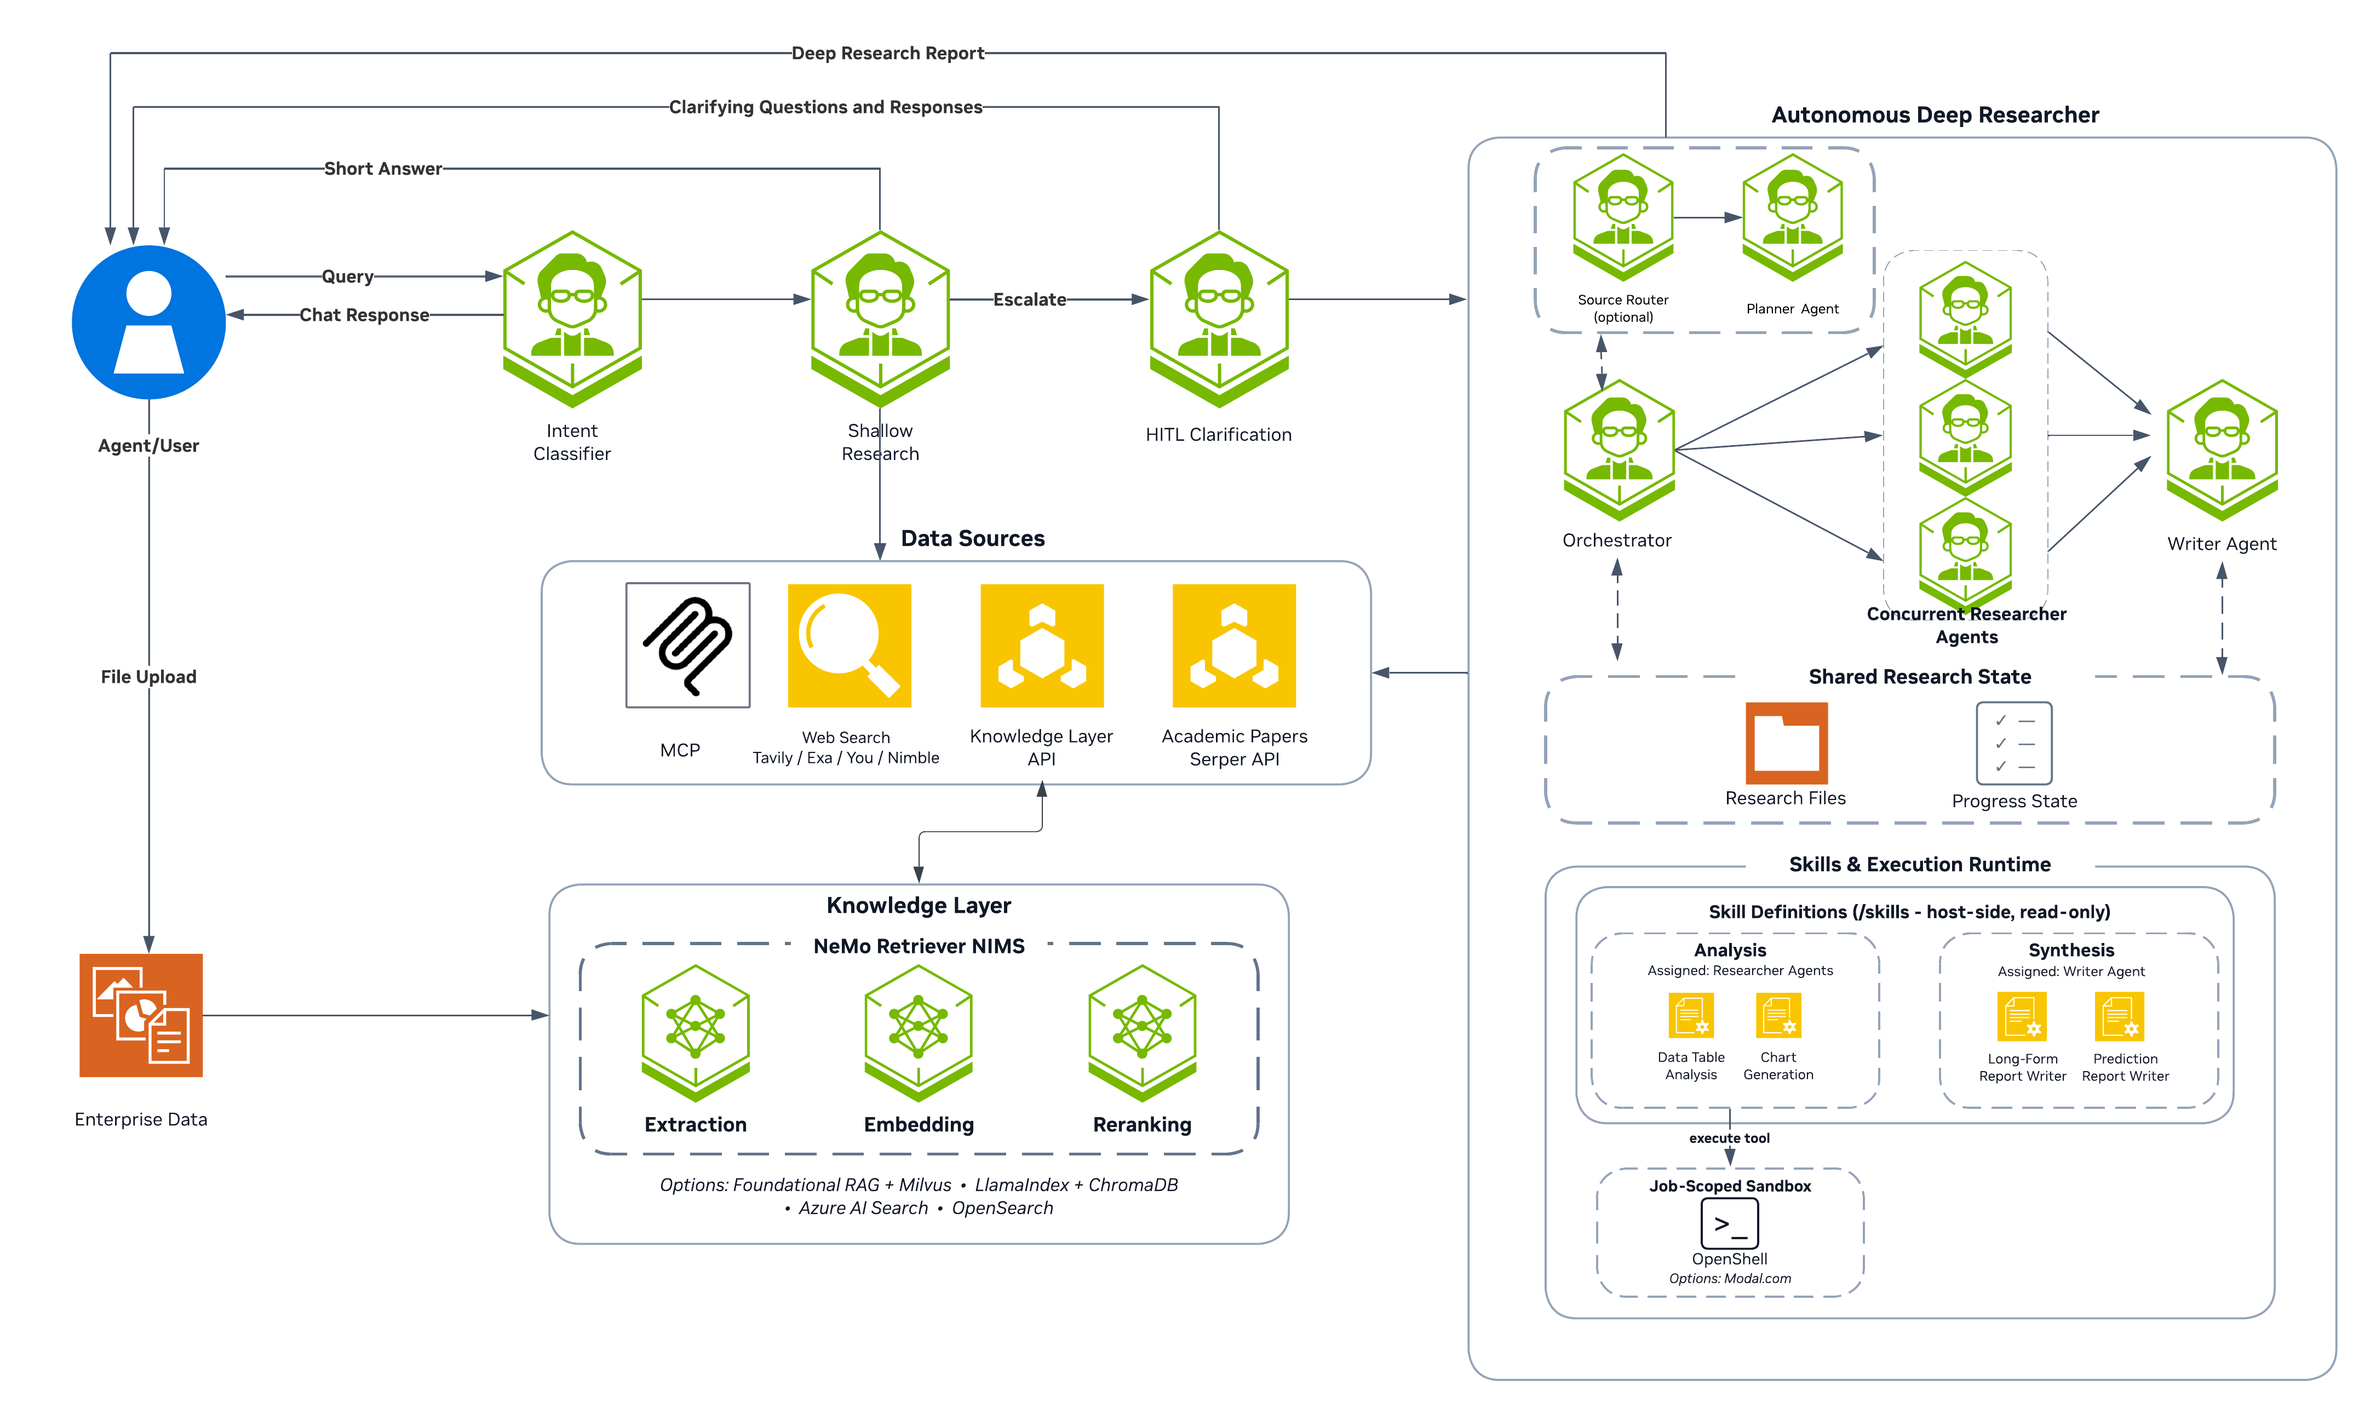
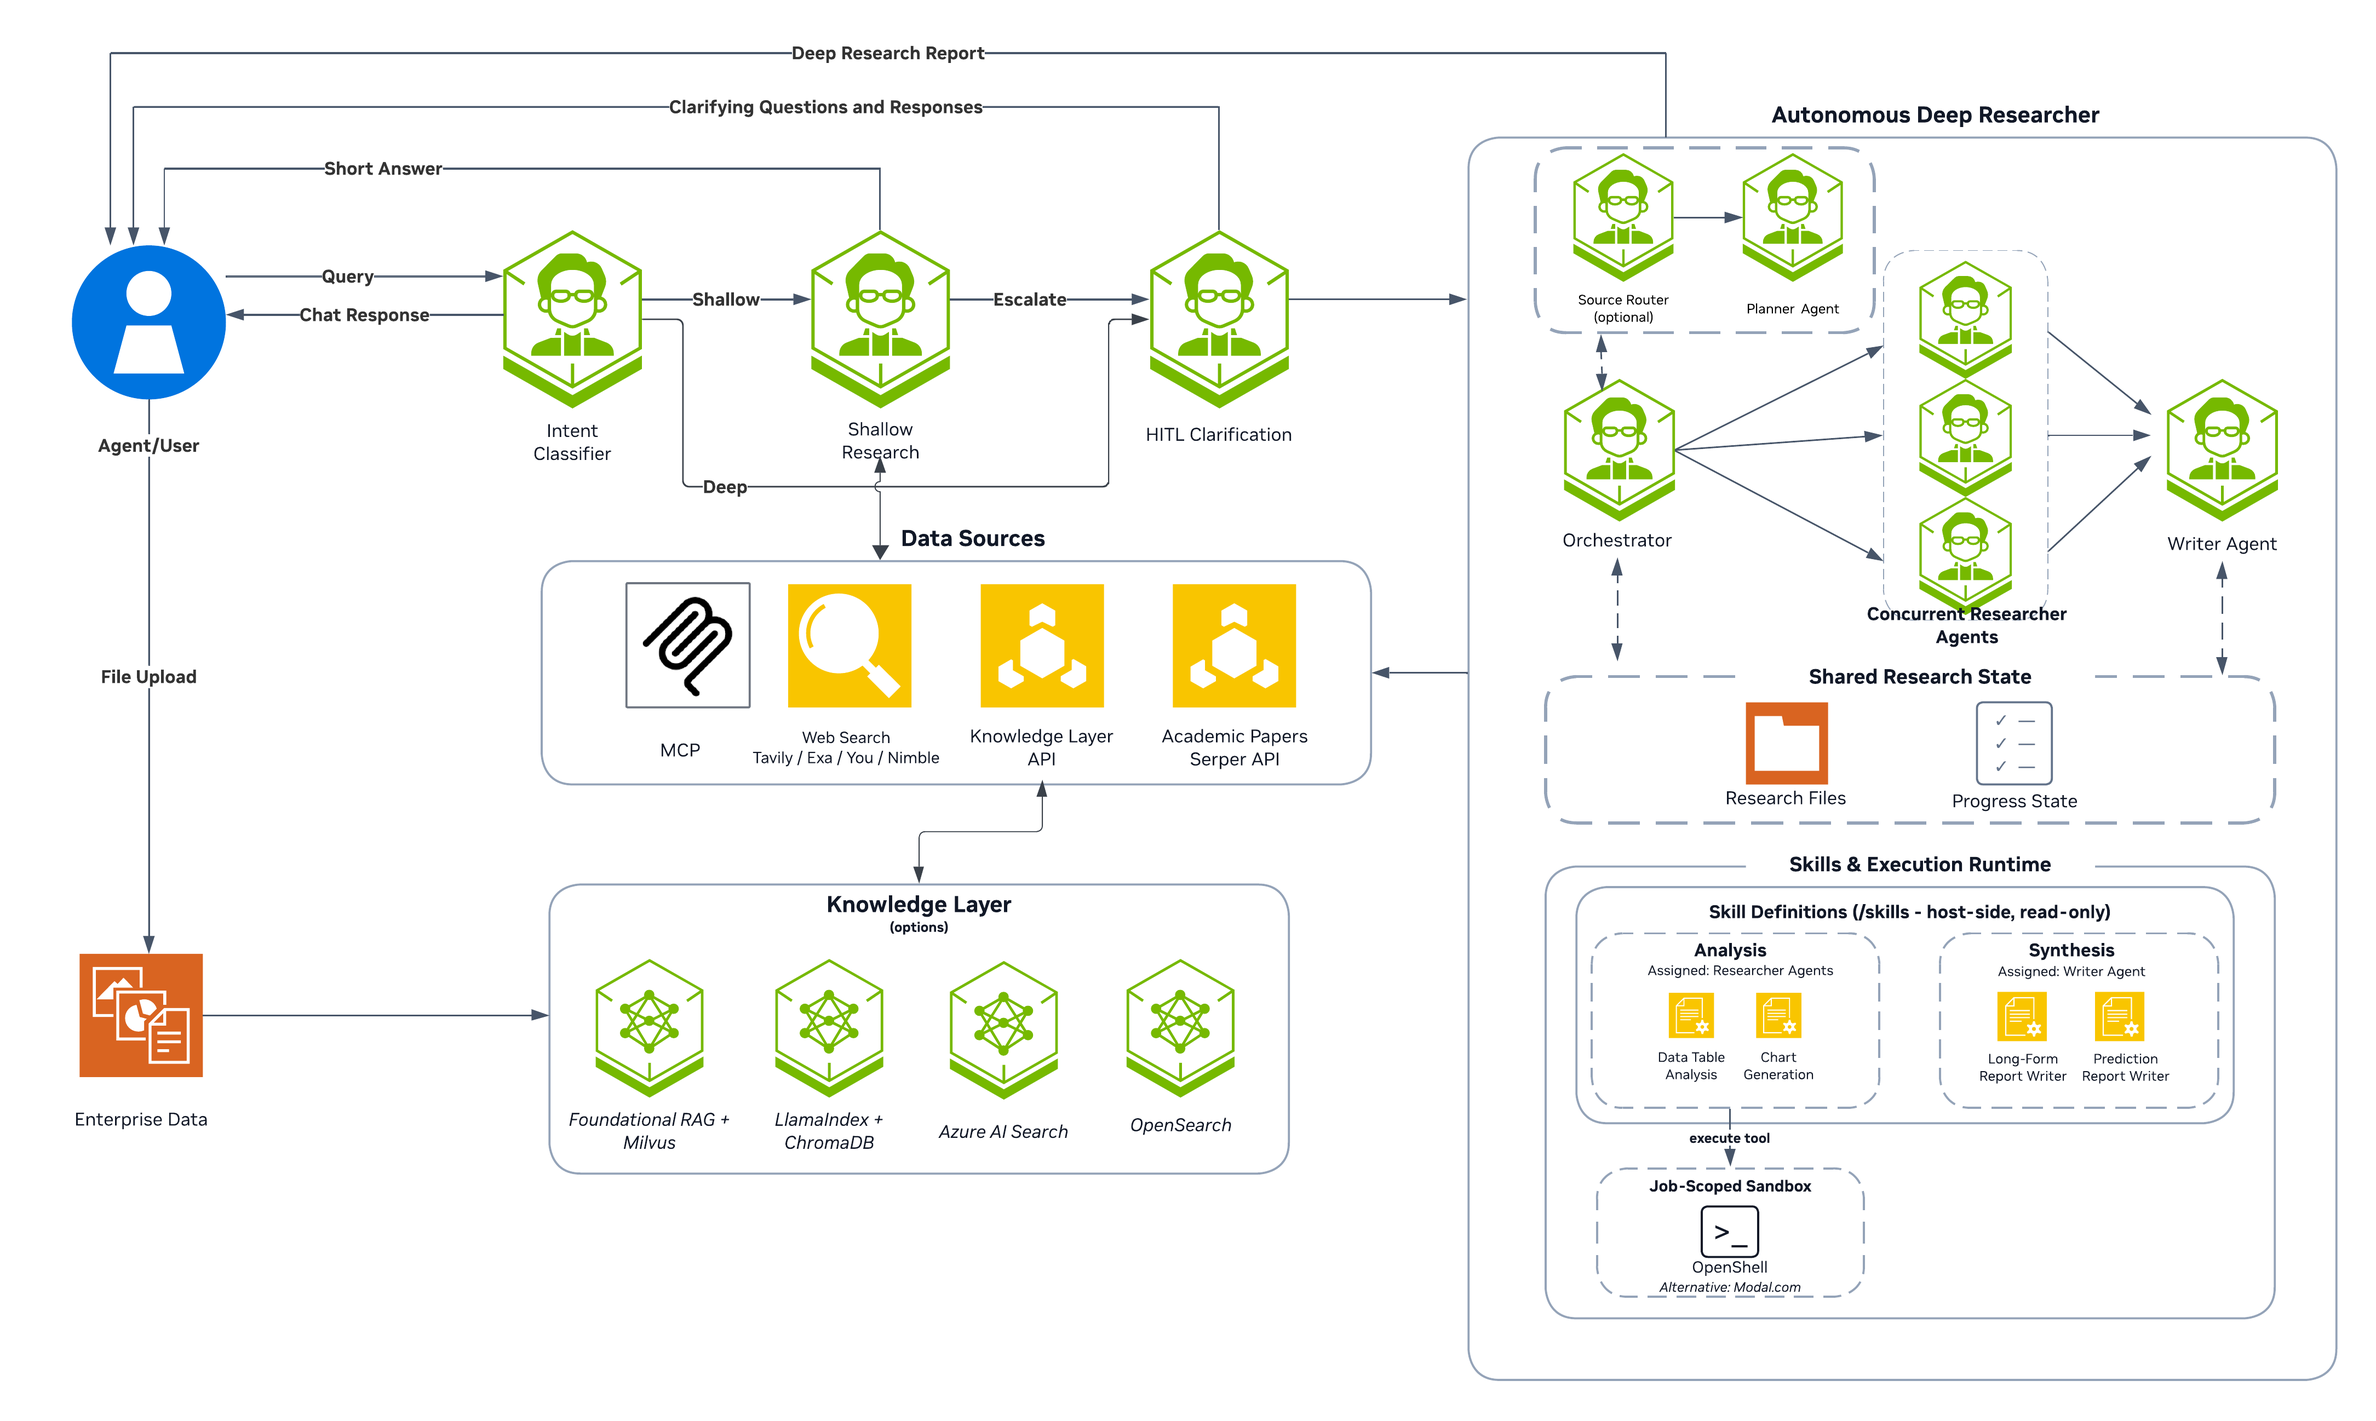
fix: preserve GPT frontier model roles (#433)
#### Overview

- Keep the optional frontier profile role-specific instead of inheriting the repository Lightning defaults.
- Use GPT-5.6 Luna for intent classification, shallow research, source routing, and research.
- Keep GPT-5.6 Sol for clarification, orchestration, planning, and writing.
- Update profile documentation and add regression coverage for the exact frontier assignments.

PR #430 correctly moved the ordinary default profiles to Nemotron 3.5 Lightning, but it also applied that default to `config_frontier_models.yml`. The frontier profile is an explicit GPT Sol/Luna topology and should remain independently validated. Restoring its historical Super shallow assignment would reintroduce a deprecated model, so Luna is used for the bounded shallow role.

#### DCO sign-off for the squash commit

#### Validation

- [x] `uv run pytest -q` — 2142 passed, 13 skipped.
- [x] Focused frontier/default model tests — 60 passed.
- [x] All changed-file pre-commit hooks, including Markdown link check and detect-secrets.
- [x] `nat validate --config_file configs/config_frontier_models.yml`.
- [x] Added regression coverage for the exact frontier model assignments.
- [x] Updated user-facing configuration documentation.
- [x] Confirmed the PR contains no secrets, credentials, or internal-only data.
- [x] Commits are GPG signed and DCO signed off.
[…]

diff --git a/tests/aiq_agent/test_default_model_profiles.py b/tests/aiq_agent/test_default_model_profiles.py
@@ -83,6 +83,7 @@ def _registered_source_tools(config: dict) -> set[str]:
 def test_default_profiles_use_role_appropriate_models(config_path: Path):
     config = _load_config(config_path)
     functions = config.get("functions", {})
+    is_frontier_profile = config_path.name == "config_frontier_models.yml"
 
     for function in functions.values():
         if not isinstance(function, dict):
@@ -90,6 +91,8 @@ def test_default_profiles_use_role_appropriate_models(config_path: Path):
 
         function_type = function.get("_type")
         if function_type == "intent_classifier":
+            if is_frontier_profile:
+                continue
             alias = function["llm"]
             assert alias == "nemotron_lightning_intent_llm"
             assert _model_for_alias(config, alias) == LIGHTNING_MODEL
@@ -101,6 +104,8 @@ def test_default_profiles_use_role_appropriate_models(config_path: Path):
             assert not config["llms"][alias]["parallel_tool_calls"]
             assert not _thinking_enabled(config, alias)
         elif function_type == "shallow_research_agent":
+            if is_frontier_profile:
+                continue
             alias = function["llm"]
             assert alias == "nemotron_lightning_agent_llm"
             assert _model_for_alias(config, alias) == LIGHTNING_MODEL
@@ -111,9 +116,9 @@ def test_default_profiles_use_role_appropriate_models(config_path: Path):
             assert config["llms"][alias]["max_tokens"] == 8192
             assert not config["llms"][alias]["parallel_tool_calls"]
             assert _thinking_enabled(config, alias)
-        elif config_path.name != "config_frontier_models.yml" and function_type == "clarifier_agent":
+        elif not is_frontier_profile and function_type == "clarifier_agent":
             assert _model_for_alias(config, function["llm"]) == ULTRA_MODEL
-        elif config_path.name != "config_frontier_models.yml" and function_type == "deep_research_agent":
+        elif not is_frontier_profile and function_type == "deep_research_agent":
             assert function["writer_llm"] == "nemotron_ultra_writer_llm"
             for role in (
                 "orchestrator_llm",

diff --git a/tests/aiq_agent/agents/deep_researcher/test_deepagents_runtime.py b/tests/aiq_agent/agents/deep_researcher/test_deepagents_runtime.py
@@ -50,6 +50,18 @@ def test_frontier_profile_uses_validated_gpt_role_split() -> None:
     config = yaml.safe_load(Path("configs/config_frontier_models.yml").read_text(encoding="utf-8"))
     llms = config["llms"]
 
+    assert llms["gpt_luna_intent_llm"] == {
+        "_type": "openai",
+        "model_name": "gpt-5.6-luna",
+        "api_key": "${OPENAI_API_KEY}",
+        "max_tokens": 1024,
+        "num_retries": 2,
+        "parallel_tool_calls": False,
+    }
+    assert llms["gpt_luna_shallow_llm"] == {
+        **llms["gpt_luna_intent_llm"],
+        "max_tokens": 8192,
+    }
     assert llms["gpt_sol_agent_llm"] == {
         "_type": "openai",
         "model_name": "gpt-5.6-sol",
@@ -66,6 +78,8 @@ def test_frontier_profile_uses_validated_gpt_role_split() -> None:
         **llms["gpt_sol_agent_llm"],
         "model_name": "gpt-5.6-luna",
     }
+    assert config["functions"]["intent_classifier"]["llm"] == "gpt_luna_intent_llm"
+    assert config["functions"]["shallow_research_agent"]["llm"] == "gpt_luna_shallow_llm"
     deep_research = config["functions"]["deep_research_agent"]
     assert {
         role: deep_research[f"{role}_llm"]

diff --git a/README.md b/README.md
@@ -116,10 +116,11 @@ The checked-in default CLI and web profiles use these core components:
 - [Tavily Search API](https://tavily.com/) for web search
 - Serper, SerpAPI, or SearchAPI for Google Scholar paper search
 
-The shipped frontier profile, `configs/config_frontier_models.yml`, uses GPT-5.6 Sol for deep-research orchestration,
-planning, and writing, and GPT-5.6 Luna for source routing and research. Treat any bring-your-own model or modified
-profile as an experimental customization until the complete workflow is evaluated with that exact model, prompt,
-hyperparameter, tool-calling, and structured-output configuration. Refer to
+The shipped frontier profile, `configs/config_frontier_models.yml`, uses GPT-5.6 Luna for intent classification,
+shallow research, source routing, and deep-research execution, with GPT-5.6 Sol for clarification, orchestration,
+planning, and writing. Treat any bring-your-own model or modified profile as an experimental customization until the
+complete workflow is evaluated with that exact model, prompt, hyperparameter, tool-calling, and structured-output
+configuration. Refer to
 [Configuration Files](#configuration-files); there is no single all-features profile.
 
 ## Target Audience
@@ -294,7 +295,7 @@ The `configs/` directory holds YAML workflow configs that define agents, tools, 
 | `config_web_frag.yml` | Nemotron 3.5 Lightning; Nemotron 3 Ultra | Web/API and Helm base with Foundational RAG plus Tavily. Requires separately deployed RAG query and ingestion services. |
 | `config_web_opensearch.yml` | Nemotron 3.5 Lightning; Nemotron 3 Ultra; Nemotron 3 Embed | Web/API with built-in OpenSearch knowledge retrieval plus Tavily; supports self-hosted, `es`, and `aoss` authentication modes. |
 | `config_web_azure_ai_search.yml` | Nemotron 3.5 Lightning; Nemotron 3 Ultra; Nemotron 3 Embed | Web/API with Azure AI Search knowledge retrieval plus Tavily; supports API-key and Azure identity authentication. |
-| `config_frontier_models.yml` | GPT Sol/Luna; Nemotron 3.5 Lightning; Gemma 4 summary | LlamaIndex profile using GPT Sol/Luna for deep research and Nemotron 3.5 Lightning for intent/shallow. Requires `OPENAI_API_KEY` and `NVIDIA_API_KEY`. |
+| `config_frontier_models.yml` | GPT Sol/Luna; Gemma 4 summary | LlamaIndex frontier profile using GPT Luna for intent, shallow research, source routing, and research, with GPT Sol for clarification, orchestration, planning, and writing. Requires `OPENAI_API_KEY`, `NVIDIA_API_KEY`, and `TAVILY_API_KEY` for the enabled Tavily tools. |
 | `config_web_default_guardrails.yml` | Nemotron 3.5 Lightning; Nemotron 3 Ultra; Gemma 4 summary | LlamaIndex profile with workflow Guardrails explicitly attached, shallow-agent Guardrails dynamically attached through `workflow_functions`, and async deep-agent Guardrails applied by the AI-Q runner from the same target configuration. |
 | `config_web_frag_mcp_auth.yml` | Nemotron 3.5 Lightning; Nemotron 3 Ultra | Foundational RAG plus an opt-in protected per-user OAuth MCP source example. Requires a real MCP endpoint and shared token store. |
 | `config_domain_routing_and_skills.yml` | Nemotron 3 Ultra; Gemma 4 summary | Direct deep-research profile with domain routing, DuckDuckGo news, Polymarket, enabled Serper paper search, LlamaIndex, built-in skills, and a fresh per-job Modal sandbox. |

diff --git a/docs/source/customization/configuration-reference.md b/docs/source/customization/configuration-reference.md
@@ -710,7 +710,7 @@ only the additional sections you need.
 | `configs/config_web_azure_ai_search.yml` | Web API | Azure AI Search knowledge retrieval and web search |
 | `configs/config_web_frag.yml` | Web API / Helm base | Foundational RAG plus Tavily. Requires separately deployed RAG query and ingestion services. Paper search is commented out. |
 | `configs/config_web_opensearch.yml` | Web API | Built-in OpenSearch knowledge backend plus Tavily. Supports unauthenticated or basic self-hosted OpenSearch and SigV4 (`es` or `aoss`); infrastructure and credentials are deployment opt-ins. |
-| `configs/config_frontier_models.yml` | Web API | Shipped LlamaIndex frontier profile: Nemotron 3.5 Lightning for intent/shallow, GPT-5.6 Sol for clarification/orchestration/planning/writing, GPT-5.6 Luna for source routing/research, and Gemma 4 for summaries. Requires `NVIDIA_API_KEY`, `OPENAI_API_KEY`, and `TAVILY_API_KEY` for the enabled Tavily tools; the commented paper-search opt-in requires `SERPER_API_KEY` when enabled. Validate the complete workflow against the configured provider endpoints before deployment. |
+| `configs/config_frontier_models.yml` | Web API | Shipped LlamaIndex frontier profile: GPT-5.6 Luna for intent/shallow/source routing/research, GPT-5.6 Sol for clarification/orchestration/planning/writing, and Gemma 4 for summaries. Requires `NVIDIA_API_KEY`, `OPENAI_API_KEY`, and `TAVILY_API_KEY` for the enabled Tavily tools; the commented paper-search opt-in requires `SERPER_API_KEY` when enabled. Validate the complete workflow against the configured provider endpoints before deployment. |
 | `configs/config_web_default_guardrails.yml` | Web API | LlamaIndex with workflow Guardrails attached explicitly, shallow-agent Guardrails dynamically attached through `workflow_functions`, and async deep-agent Guardrails applied by the AI-Q runner from the same target configuration. |
 | `configs/config_web_frag_mcp_auth.yml` | Web API | Foundational RAG plus a protected per-user OAuth MCP source example. Requires a real protected MCP endpoint and shared token-store configuration; it is not a zero-config default. |
 | `configs/config_domain_routing_and_skills.yml` | Direct deep-research workflow | Automatic domain routing, Tavily, DuckDuckGo news, Polymarket, LlamaIndex, enabled Serper paper search, built-in skills, and a Modal sandbox. Requires the corresponding service credentials and Modal setup. |

diff --git a/docs/source/examples/hybrid-frontier-model.md b/docs/source/examples/hybrid-frontier-model.md
@@ -5,14 +5,14 @@ SPDX-License-Identifier: Apache-2.0
 
 # Hybrid Frontier Model
 
-The checked-in `configs/config_frontier_models.yml` profile combines NVIDIA NIM models for intent classification and
-shallow research with GPT Sol/Luna for clarification and deep research.
+The checked-in `configs/config_frontier_models.yml` profile uses GPT Luna for bounded classification and research
+roles, GPT Sol for coordination and writing, and NVIDIA NIM for document summaries.
 
 ## Shipped Configuration
 
 | Role | Model |
 | --- | --- |
-| Intent classification and shallow research | `nvidia/nemotron-3.5-lightning-30b-a3b` |
+| Intent classification and shallow research | `gpt-5.6-luna` with role-specific token budgets |
 | Clarification, orchestration, and planning | `gpt-5.6-sol` |
 | Source routing and research | `gpt-5.6-luna` |
 | Report writing | `gpt-5.6-sol` with the writer token budget from the checked-in config |
@@ -31,7 +31,7 @@ as experimental until the complete workflow passes evaluation.
 
 ## Prerequisites
 
-- `NVIDIA_API_KEY` for NVIDIA NIM models
+- `NVIDIA_API_KEY` for the Gemma document-summary model
 - `OPENAI_API_KEY` for the GPT Sol/Luna roles
 - `TAVILY_API_KEY` for the default web-search tools
 

diff --git a/docs/source/customization/swapping-models.md b/docs/source/customization/swapping-models.md
@@ -13,7 +13,7 @@ AI-Q 2.2 ships these exact model assignments and parameters:
 | Configuration | Intent and shallow roles | Clarification and deep-research roles | Optional summary role |
 | --- | --- | --- | --- |
 | `configs/config_cli_default.yml`, `configs/config_web_default_llamaindex.yml` | `nvidia/nemotron-3.5-lightning-30b-a3b` | `nvidia/nemotron-3-ultra-550b-a55b` for clarification, orchestration, source routing, research, planning, and writing | `google/gemma-4-31b-it` in the web profile |
-| `configs/config_frontier_models.yml` | `nvidia/nemotron-3.5-lightning-30b-a3b` | `gpt-5.6-sol` for clarification, orchestration, planning, and writing; `gpt-5.6-luna` for source routing and research | `google/gemma-4-31b-it` |
+| `configs/config_frontier_models.yml` | `gpt-5.6-luna` | `gpt-5.6-sol` for clarification, orchestration, planning, and writing; `gpt-5.6-luna` for source routing and research | `google/gemma-4-31b-it` |
 
 The checked-in files define the documented compatibility boundary; they are not a substitute for an end-to-end run
 against your provider endpoints and credentials. Changing a model, endpoint, role assignment, prompt, or inference

diff --git a/docs/source/examples/index.md b/docs/source/examples/index.md
@@ -14,5 +14,5 @@ Complete, annotated configuration examples for common use cases.
 | [Full Pipeline -- Foundational RAG](./full-pipeline-web.md) | Complete production setup with hosted RAG | `config_web_frag.yml` |
 | [Azure AI Search Knowledge Layer](./azure-ai-search.md) | Managed hybrid document retrieval | `config_web_azure_ai_search.yml` |
 | [CLI with Local NIMs](./cli-with-local-nims.md) | Interactive CLI mode with self-hosted NIM models | `config_cli_default.yml` |
-| [Hybrid Frontier Model](./hybrid-frontier-model.md) | NIM for intent/shallow + shipped GPT Sol/Luna role assignment | `config_frontier_models.yml` |
+| [Hybrid Frontier Model](./hybrid-frontier-model.md) | GPT Luna for intent/research + GPT Sol for coordination/writing | `config_frontier_models.yml` |
 | [Deep Research Skills and Sandbox](./skills-sandbox/index.md) | DeepAgents skills with provider-backed sandbox execution for quantitative research workflows | `config_domain_routing_and_skills.yml` |
